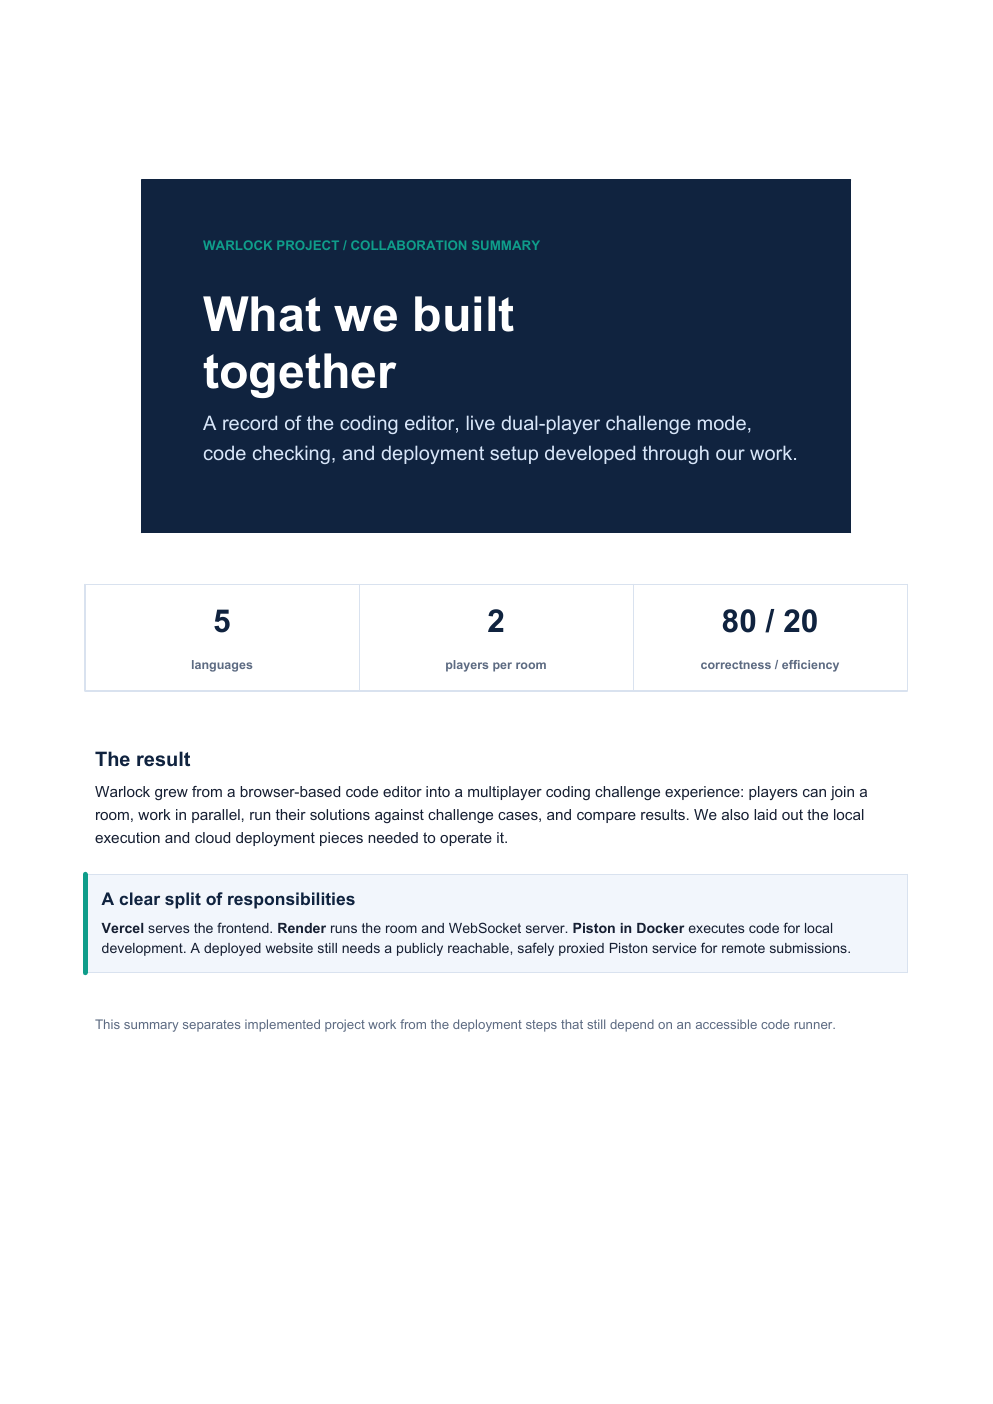
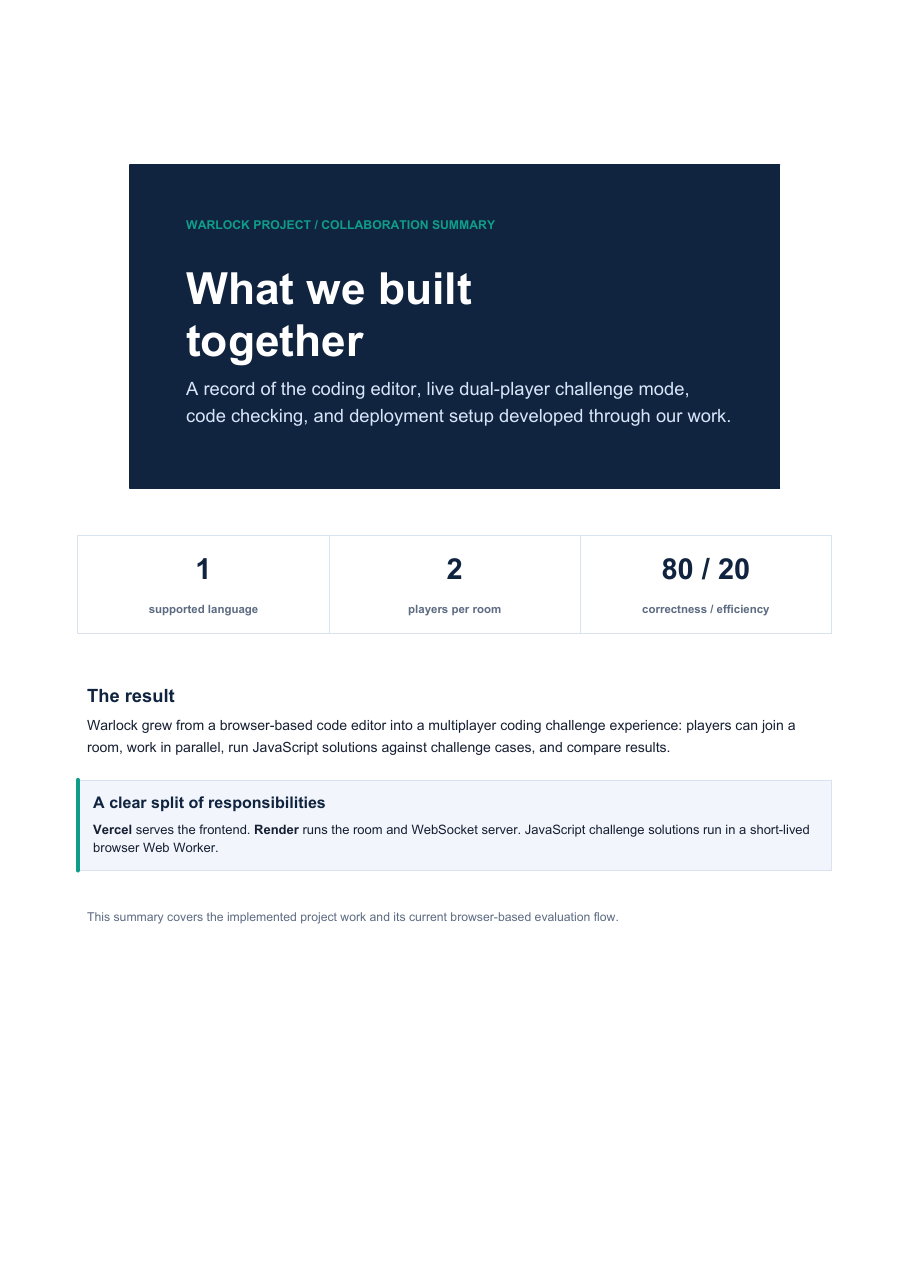
change in piston

diff --git a/src/dualChallenges.js b/src/dualChallenges.js
@@ -43,44 +43,26 @@ export const LANGUAGES = [
   { id: 'javascript', label: 'JavaScript' },
 ];
 
-export function starterFor(question, language) {
-  const functionName = question.functionName;
-  if (language === 'python') return `class Solution:\n    def ${functionName}(self, ${question.id === 1 ? 'nums, target' : question.id === 2 ? 's' : 'x'}):\n        # Write your code here\n        pass`;
-  if (language === 'java') {
-    const args = question.id === 1 ? 'int[] nums, int target' : question.id === 2 ? 'char[] s' : 'int x';
-    const type = question.id === 2 ? 'void' : question.id === 3 ? 'boolean' : 'int[]';
-    return `class Solution {\n    public ${type} ${functionName}(${args}) {\n        // Write your code here\n    }\n}`;
-  }
-  if (language === 'cpp') {
-    const signature = question.id === 1 ? 'vector<int> twoSum(vector<int>& nums, int target)' : question.id === 2 ? 'void reverseString(vector<char>& s)' : 'bool isPalindrome(int x)';
-    return `class Solution {\npublic:\n    ${signature} {\n        // Write your code here\n    }\n};`;
-  }
-  if (language === 'csharp') {
-    const signature = question.id === 1 ? 'int[] TwoSum(int[] nums, int target)' : question.id === 2 ? 'void ReverseString(char[] s)' : 'bool IsPalindrome(int x)';
-    return `public class Solution {\n    public ${signature} {\n        // Write your code here\n    }\n}`;
-  }
+export function starterFor(question) {
   return question.starterCode;
 }
 
-export function efficiencyScore(question, code, language) {
-  if (question.id === 1) {
-    const mapPatterns = {
-      javascript: /\bnew\s+Map\b/,
-      python: /\{\s*[^{}]*\bfor\b|\bdict\s*\(/,
-      java: /\bHashMap\b|\bMap\s*</,
-      cpp: /\b(unordered_map|map)\s*</,
-      csharp: /\bDictionary\s*</,
-    };
-    return (mapPatterns[language] || mapPatterns.javascript).test(code) ? 100 : 80;
-  }
-  if (question.id === 3) return /%\s*10|Math\.floor|Integer\.toString|ToString\(|str\(/.test(code) ? 100 : 80;
+export function efficiencyScore(question, code) {
+  if (question.id === 1) return /\bnew\s+Map\b/.test(code) ? 100 : 80;
+  if (question.id === 3) return /%\s*10|Math\.floor/.test(code) ? 100 : 80;
   return /for\s*\([^;]+;[^;]*\*|\bwhile\s*\(/.test(code) ? 80 : 100;
 }
 
 export function runCasesLocally(question, code, language) {
   if (language !== 'javascript') return Promise.resolve({ error: 'Only JavaScript evaluation is available.' });
   return new Promise((resolve) => {
-    const worker = new Worker(new URL('./codeRunner.worker.js', import.meta.url), { type: 'module' });
+    let worker;
+    try {
+      worker = new Worker(new URL('./codeRunner.worker.js', import.meta.url), { type: 'module' });
+    } catch (error) {
+      resolve({ error: error.message || 'Could not start the code evaluator.' });
+      return;
+    }
     const timeout = setTimeout(() => {
       worker.terminate();
       resolve({ error: 'Execution timed out. Check for an infinite loop and try again.' });

diff --git a/tmp/pdfs/create_achievement_pdf.py b/tmp/pdfs/create_achievement_pdf.py
@@ -103,7 +103,7 @@ story.append(Spacer(1, 15*mm))
 story.append(cover)
 story.append(Spacer(1, 11*mm))
 metrics = Table([[
-    P("<font size='19' color='#10233F'><b>5</b></font><br/><font size='7.5' color='#5D6B82'>languages</font>", "Metric"),
+    P("<font size='19' color='#10233F'><b>1</b></font><br/><font size='7.5' color='#5D6B82'>supported language</font>", "Metric"),
     P("<font size='19' color='#10233F'><b>2</b></font><br/><font size='7.5' color='#5D6B82'>players per room</font>", "Metric"),
     P("<font size='19' color='#10233F'><b>80 / 20</b></font><br/><font size='7.5' color='#5D6B82'>correctness / efficiency</font>", "Metric"),
 ]], colWidths=[W/3]*3)
@@ -118,26 +118,26 @@ metrics.setStyle(TableStyle([
 story.append(metrics)
 story.append(Spacer(1, 9*mm))
 story.append(P("The result", "H2x"))
-story.append(P("Warlock grew from a browser-based code editor into a multiplayer coding challenge experience: players can join a room, work in parallel, run their solutions against challenge cases, and compare results. We also laid out the local execution and cloud deployment pieces needed to operate it.", "Bodyx"))
+story.append(P("Warlock grew from a browser-based code editor into a multiplayer coding challenge experience: players can join a room, work in parallel, run JavaScript solutions against challenge cases, and compare results.", "Bodyx"))
 story.append(Spacer(1, 3*mm))
-story.append(card("A clear split of responsibilities", "<b>Vercel</b> serves the frontend. <b>Render</b> runs the room and WebSocket server. <b>Piston in Docker</b> executes code for local development. A deployed website still needs a publicly reachable, safely proxied Piston service for remote submissions.", W))
+story.append(card("A clear split of responsibilities", "<b>Vercel</b> serves the frontend. <b>Render</b> runs the room and WebSocket server. JavaScript challenge solutions run in a short-lived browser Web Worker.", W))
 story.append(Spacer(1, 7*mm))
-story.append(P("This summary separates implemented project work from the deployment steps that still depend on an accessible code runner.", "Smallx"))
+story.append(P("This summary covers the implemented project work and its current browser-based evaluation flow.", "Smallx"))
 story.append(PageBreak())
 
 # Page 2: feature work
 story.append(P("FEATURES  /  IMPLEMENTED WORK", "Kicker"))
 story.append(P("From editor to head-to-head coding", "H1x"))
-story.append(P("The main product work centered on making coding challenges usable in multiple languages and playable by two people at once.", "Bodyx"))
+story.append(P("The main product work centered on making JavaScript coding challenges playable by two people at once.", "Bodyx"))
 story.append(Spacer(1, 3*mm))
 
 items = [
-    ("01  Multi-language editor", "Added a language selector for JavaScript, Python, Java, C++, and C#. Editor templates and challenge harnesses are generated for each language."),
+    ("01  JavaScript editor", "Focused the challenge editor on JavaScript and added starter templates for the available problems."),
     ("02  Live dual-player rooms", "Built room creation and joining with short room codes, player names, shared challenge state, and live code updates between two players."),
     ("03  Submit and compare", "Added individual submissions, test-case results, score comparison, and winner selection. The submit control and dual-editor layout were adjusted so the action remains visible."),
-    ("04  Correctness plus efficiency", "The score weights test correctness at 80% and a language-specific efficiency heuristic at 20%. The heuristic provides guidance; it is not a formal complexity proof."),
-    ("05  Real compilation and runtime checks", "Connected the scoring flow to Piston so compiled languages can report compiler errors and all supported languages can execute the challenge harness when the required runtime is installed."),
-    ("06  Docker-based local runner", "Added a Docker Compose service, persistent runtime storage, an installer for the five language runtimes, and a Vite proxy for local browser requests."),
+    ("04  Correctness plus efficiency", "The score weights test correctness at 80% and a JavaScript efficiency heuristic at 20%. The heuristic provides guidance; it is not a formal complexity proof."),
+    ("05  Challenge evaluation", "Runs submitted JavaScript against the challenge cases in a short-lived Web Worker."),
+    ("06  Execution timeout", "Added a worker timeout so an infinite loop cannot keep the evaluation running indefinitely."),
 ]
 for i in range(0, len(items), 2):
     pair = [card(items[i][0], items[i][1], W/2-3*mm), card(items[i+1][0], items[i+1][1], W/2-3*mm)]
@@ -157,7 +157,7 @@ story.append(P("Product decisions and fixes", "H2x"))
 bullets = [
     "Kept the frontend and the long-running multiplayer WebSocket process as separate deployable services.",
     "Added a health endpoint and Render port handling so the dual server can run as a web service.",
-    "Added a production-side message for an unconfigured runner instead of silently sending submissions to a missing local proxy.",
+    "Runs evaluation in a separate worker so the editor remains responsive while test cases execute.",
 ]
 for b in bullets:
     story.append(P("<font color='#0F9D8A'><b>-</b></font>  " + b, "Bodyx"))
@@ -167,13 +167,13 @@ story.append(PageBreak())
 # Page 3: deployment and status
 story.append(P("DEPLOYMENT  /  WHAT'S NEXT", "Kicker"))
 story.append(P("How the pieces fit", "H1x"))
-story.append(P("We worked through Vercel build settings, Render service settings, public WebSocket URLs, and the difference between local Docker execution and cloud execution.", "Bodyx"))
+story.append(P("We worked through Vercel build settings, Render service settings, and public WebSocket URLs for multiplayer rooms.", "Bodyx"))
 story.append(Spacer(1, 4*mm))
 
 arch = Table([
     [P("PLAYERS' BROWSER", "CenterSmall"), P("LINK", "CenterSmall"), P("SERVICE", "CenterSmall")],
-    [P("Vercel frontend<br/><font color='#5D6B82'>Vite build output: dist</font>", "CenterSmall"), P("<font color='#0F9D8A' size='11'><b>&lt;-&gt;</b></font>", "CenterSmall"), P("Piston API<br/><font color='#5D6B82'>Docker, local during development</font>", "CenterSmall")],
-    [P("Room creation, editors,<br/>challenge and scoring UI", "CenterSmall"), P("<font color='#0F9D8A' size='9'><b>runner calls</b></font>", "CenterSmall"), P("Requires an accessible endpoint<br/>and a browser-safe proxy in production", "CenterSmall")],
+    [P("Vercel frontend<br/><font color='#5D6B82'>Vite build output: dist</font>", "CenterSmall"), P("<font color='#0F9D8A' size='11'><b>&lt;-&gt;</b></font>", "CenterSmall"), P("JavaScript worker<br/><font color='#5D6B82'>Runs in the browser</font>", "CenterSmall")],
+    [P("Room creation, editors,<br/>challenge and scoring UI", "CenterSmall"), P("<font color='#0F9D8A' size='9'><b>test cases</b></font>", "CenterSmall"), P("Executes challenge code<br/>with a two-second timeout", "CenterSmall")],
     [P("Render Web Service<br/><font color='#5D6B82'>Node WebSocket server</font>", "CenterSmall"), P("<font color='#0F9D8A' size='11'><b>&lt;-&gt;</b></font>", "CenterSmall"), P("Room state and live<br/>code synchronization", "CenterSmall")],
 ], colWidths=[W*0.42, W*0.16, W*0.42])
 arch.setStyle(TableStyle([
@@ -190,7 +190,7 @@ story.append(P("Deployment knowledge gained", "H2x"))
 steps = [
     ("Vercel", "Build the Vite frontend with `npm run build`; the output folder is `dist`. The live frontend needs `VITE_DUAL_SERVER_URL` set to the Render WebSocket URL ending in `/dual-ws`, then a redeploy."),
     ("Render", "Deploy the Node server as a Web Service from the repository root. The service starts with `npm run dual-server` and listens on Render's assigned `PORT`. The `/health` route provides a health check; the root URL can return 404 by design."),
-    ("Docker / Piston", "Run `npm run piston:setup` locally with Docker Desktop running, then `npm run dev`. This local runner is not automatically reachable from Vercel or another player's device."),
+    ("Browser evaluation", "Run `npm run dev`; JavaScript challenge evaluation runs in a short-lived Web Worker without a separate runner service."),
 ]
 for title, body in steps:
     t = Table([[P(title, "CardTitle"), P(body, "CardBody")]], colWidths=[26*mm, W-26*mm])
@@ -207,7 +207,7 @@ for title, body in steps:
 
 story.append(Spacer(1, 5*mm))
 story.append(P("Current status and remaining dependency", "H2x"))
-callout = Table([[P("<b>Completed in the project:</b> editor language selection, dual rooms and code synchronization, scoring flow, Render/Vercel configuration, and the local Docker/Piston setup. <b>Still needed for online code submissions:</b> a Piston runner hosted somewhere both players' browsers can reach, plus a safe proxy that handles browser access. The Docker service added to this repository binds to the local machine only. The user reported deploying the frontend to Vercel and the dual server to Render; their end-to-end online runner configuration was still being worked through.", "Callout")]], colWidths=[W])
+callout = Table([[P("<b>Completed in the project:</b> JavaScript challenge editing and evaluation, dual rooms, code synchronization, score comparison, and Render/Vercel configuration. The browser runs challenge code in a short-lived Web Worker; no external code runner is required.", "Callout")]], colWidths=[W])
 callout.setStyle(TableStyle([
     ("BACKGROUND", (0,0), (-1,-1), HexColor("#EAF7F5")),
     ("BOX", (0,0), (-1,-1), 0.7, HexColor("#A6DED5")),
@@ -219,7 +219,7 @@ callout.setStyle(TableStyle([
 ]))
 story.append(callout)
 story.append(Spacer(1, 4*mm))
-story.append(P("A practical milestone: Warlock now has a defined path from writing code, to checking it, to competing live with another player - with the remaining online runner requirement clearly identified.", "Smallx"))
+story.append(P("Warlock now supports writing JavaScript solutions, checking them against challenge cases, and competing live with another player.", "Smallx"))
 
 doc.build(story, onFirstPage=on_page, onLaterPages=on_page)
 print(OUT)
